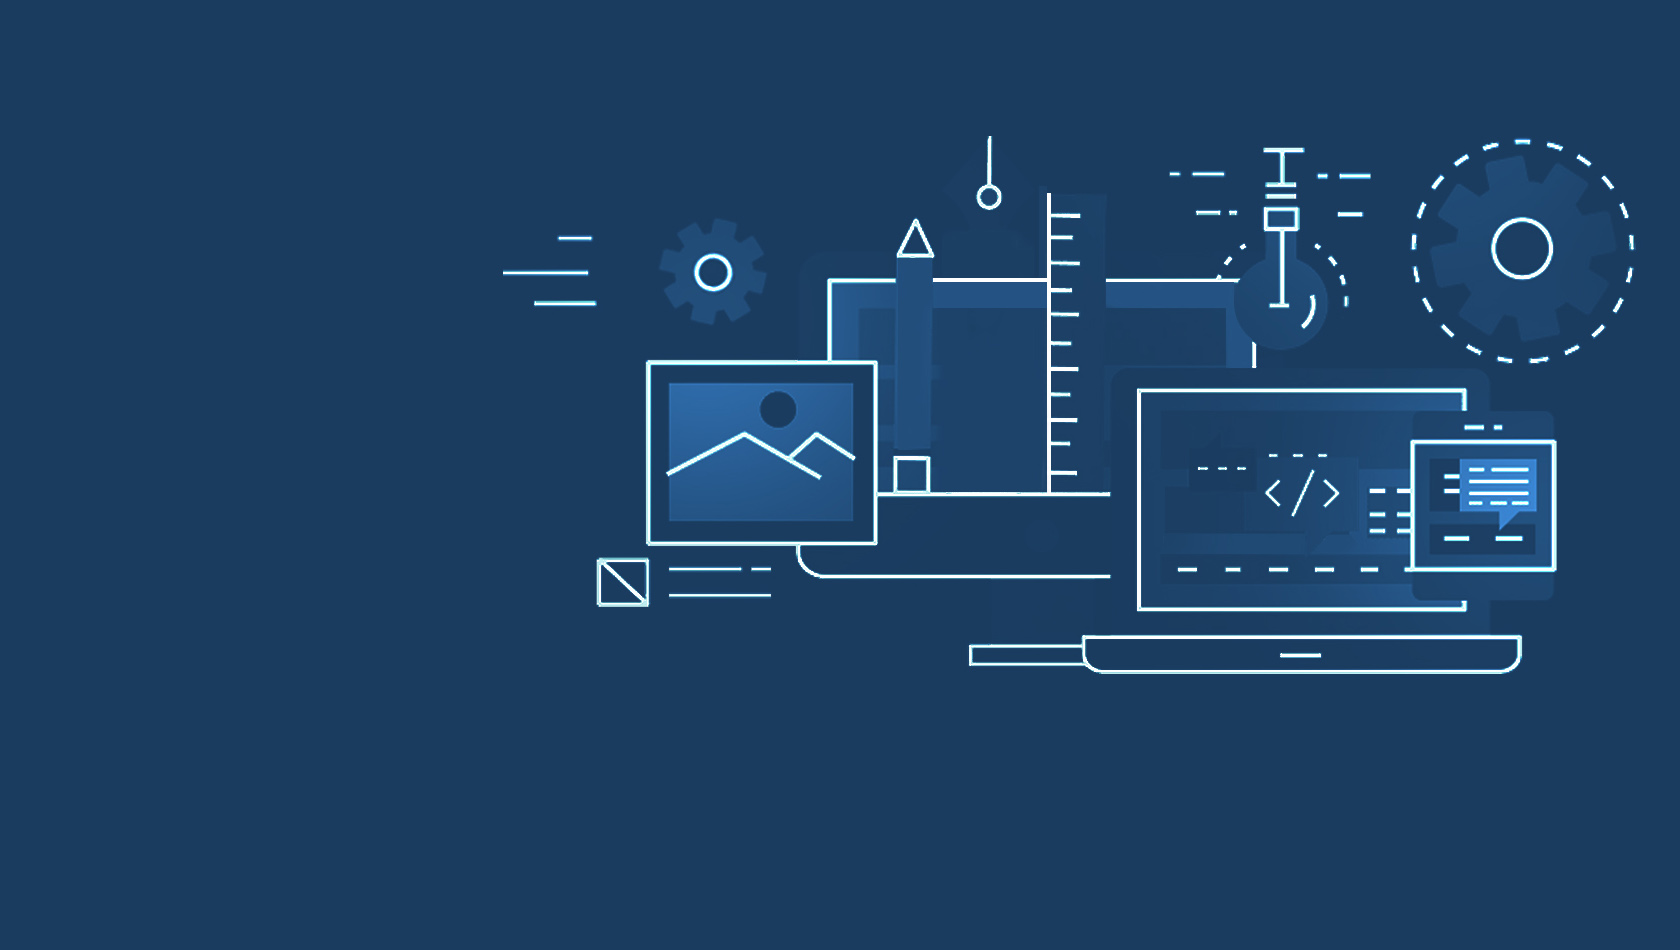
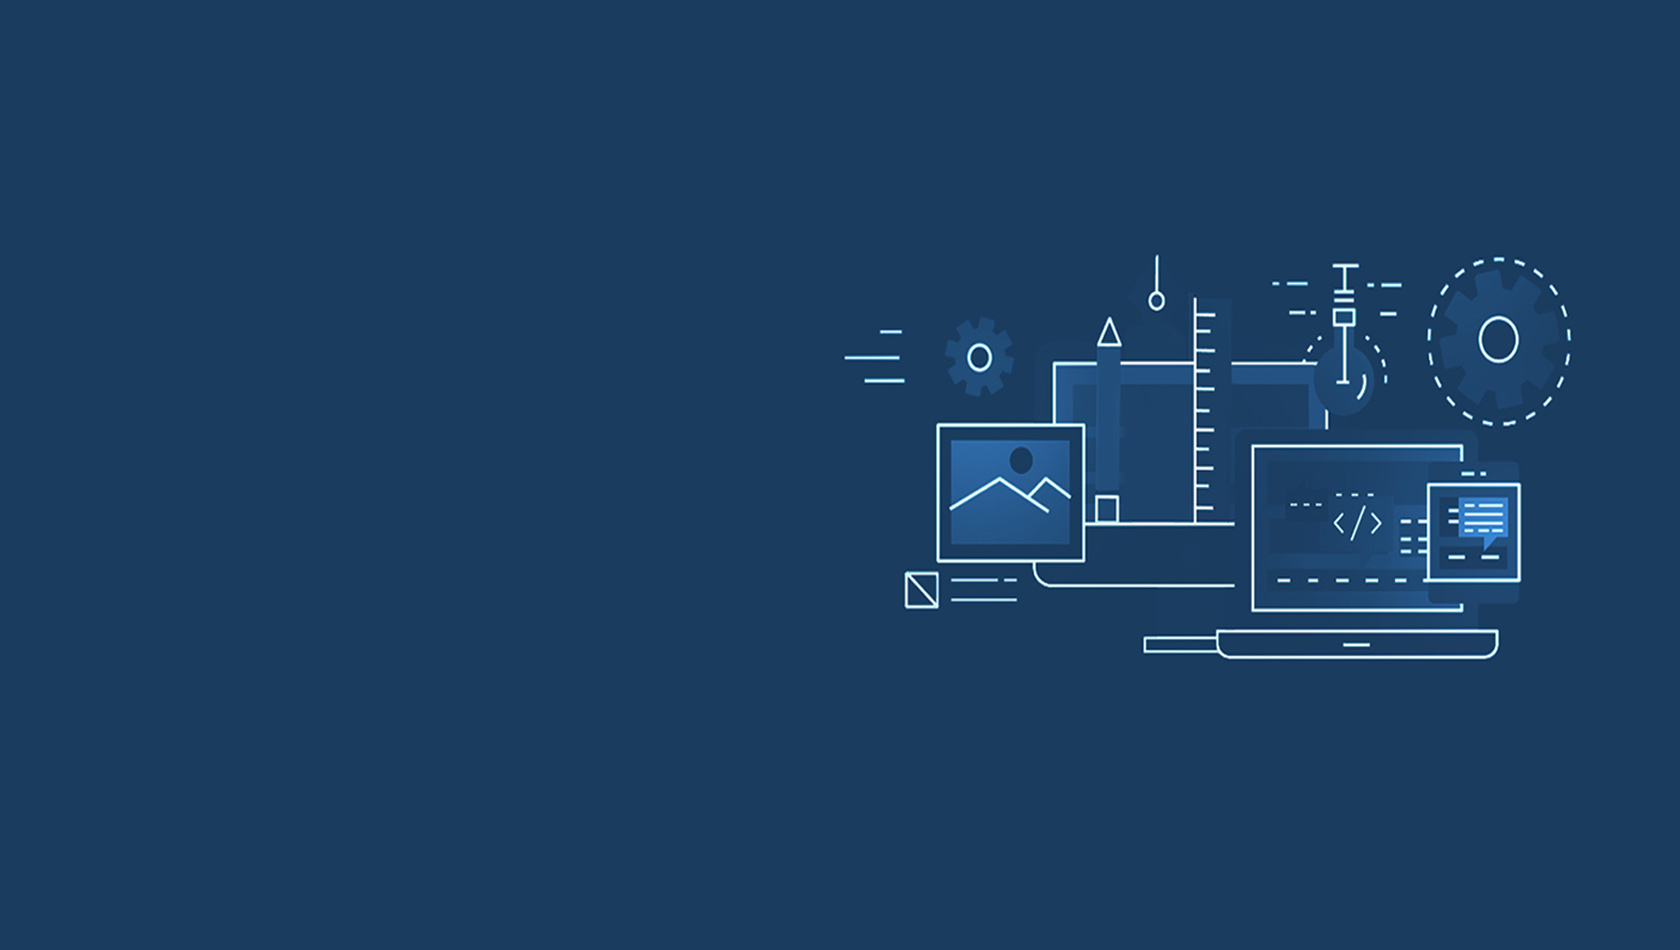
13

diff --git a/index.html b/index.html
@@ -80,15 +80,13 @@
                     <div class="snow background layered"></div>
                 </div>
                 <div class="banner-info text-uppercase">
-                    <h4 data-aos="fade-right" class="text-white">Expert Hands with simple and effective solutions </h4>
-
-                        <h2 data-aos="fade-right" class="text-yellow text-center"> for
-                            your business</h2>
+                    <h4 data-aos="fade-right" class="text-white font-size-class">Expert Hands with simple and effective solutions<br> <span class="text-yellow">for
+                        your business</span> </h4>
                     <!-- <h5 data-aos="fade-right">Hello, my name is Daniel</h5>
                     <h3 data-text="I'm a Programmer">I'm a Programmer</h3> -->
                     <div class="ban-buttons mt-3" data-aos="fade-right">
-                        <a class="btn work scroll" href="#projects">My Project</a>
-                        <a class="btn work scroll active" href="#contact">Here me</a>
+                        <a class="btn work scroll active" href="#projects">My Project</a>
+                        <a class="btn work scroll  bg-danger text-white" href="#contact">Here me</a>
                     </div>
 
                 </div>

diff --git a/css/style.css b/css/style.css
@@ -257,7 +257,6 @@ div#word-mark h1 a {
     color: #037ef3;
 }
 
-
 /*--/banner--*/
 
 /*-- /header --*/
@@ -269,7 +268,7 @@ div#word-mark h1 a {
     -moz-background-size: cover;
     -o-background-size: cover;
     -ms-background-size: cover;
-    height:40vw;
+    height:45vw;
     position: relative;
     z-index: 0;
 }
@@ -1087,6 +1086,10 @@ ul.social-icons li a:hover {
     .contact {
         height: 51vw;
     }
+
+    h4.text-white.font-size-class.aos-init.aos-animate {
+        font-size: 24px;
+    }
 }
 
 @media(max-width:1366px) {
@@ -1183,6 +1186,9 @@ ul.social-icons li a:hover {
     .proj_gallery_grid1_pos h3 {
         font-size: 0.8em;
         letter-spacing: 1px;
+    }
+    h4.text-white.font-size-class.aos-init.aos-animate {
+        font-size: 16px;
     }
 }
 
